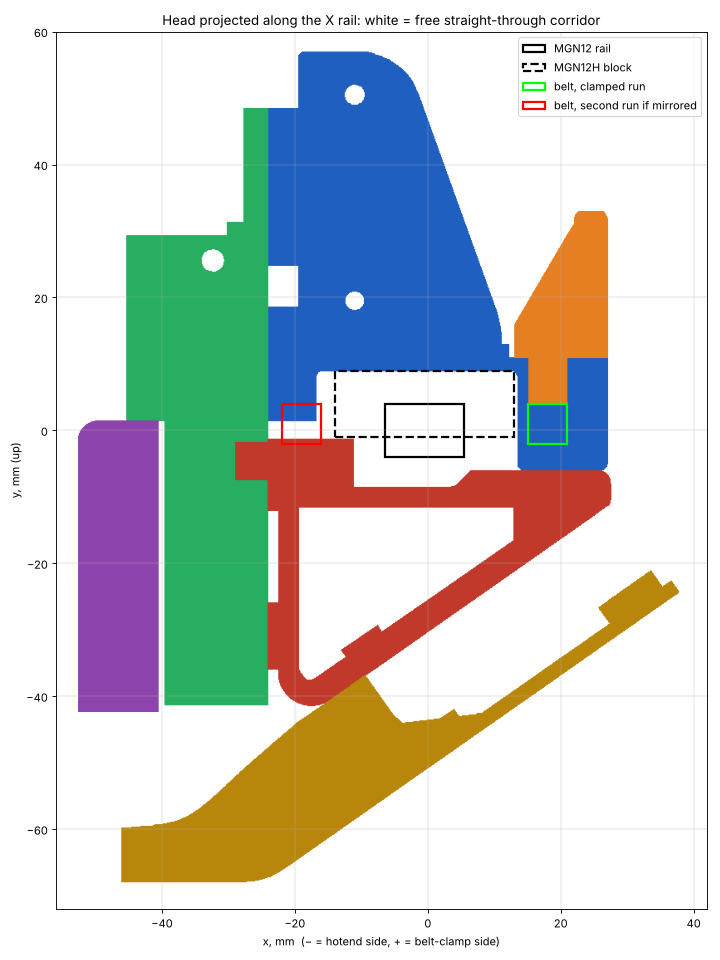
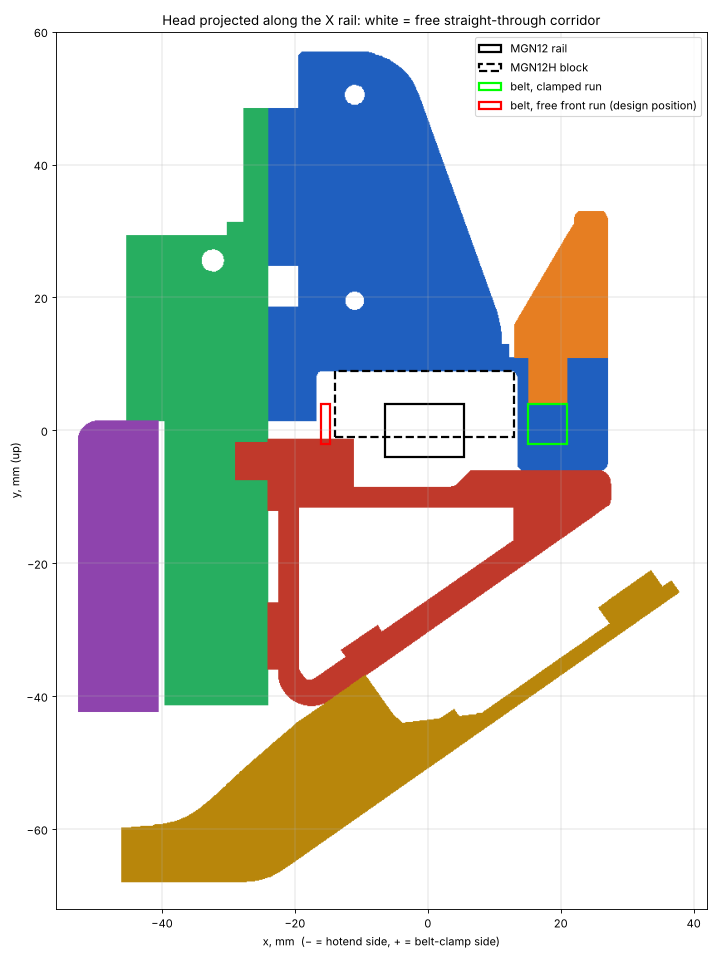
Head review: quantify the front belt gap; fix GEN2 board size in spec files
Claude-Session: https://claude.ai/code/session_01SSoWDM7suK9sTLGVtSHTfG

Changed region(s): [[0.6417, 0.0312, 0.9778, 0.125], [0.4278, 0.4062, 0.4583, 0.4688], [0.3667, 0.4375, 0.3972, 0.4688]]

diff --git a/head/tools/belt_corridor.py b/head/tools/belt_corridor.py
@@ -16,7 +16,7 @@ X0, X1, Y0, Y1 = -56, 42, -72, 60        # window, mm
 RAIL = (-6.5, -4.0, 12.0, 8.0)           # MGN12 rail: x, y, w, h (carriage holes centred on x = -0.5)
 BLOCK = (-14.0, -1.0, 27.0, 10.0)        # MGN12H block, top face at y = 9 (underside of the frame plate)
 BELT_REAR = (15.0, -2.0, 6.0, 6.0)       # clamped run: teardrop pockets x 15..21, belt y -2..4
-BELT_FRONT = (-22.0, -2.0, 6.0, 6.0)     # second run IF it mirrors the rear one about the rail (to be measured)
+BELT_FRONT = (-16.1, -2.0, 1.4, 6.0)     # free run as the design assumes it: centred in the 2.75 mm gap, same height as the clamped run
 COLORS = ["#1f5fbf", "#e67e22", "#27ae60", "#8e44ad", "#c0392b", "#b8860b", "#555555"]
 
 
@@ -42,7 +42,7 @@ def main(out, paths):
     ax.imshow(img, extent=(X0, X1, Y0, Y1))
     for (x, y, bw, bh), ec, ls, lab in [(RAIL, "k", "-", "MGN12 rail"), (BLOCK, "k", "--", "MGN12H block"),
                                         (BELT_REAR, "lime", "-", "belt, clamped run"),
-                                        (BELT_FRONT, "red", "-", "belt, second run if mirrored")]:
+                                        (BELT_FRONT, "red", "-", "belt, free front run (design position)")]:
         ax.add_patch(plt.Rectangle((x, y), bw, bh, fill=False, ec=ec, ls=ls, lw=2, label=lab))
     ax.set_xlabel("x, mm  (− = hotend side, + = belt-clamp side)")
     ax.set_ylabel("y, mm (up)")

diff --git a/head/README.md b/head/README.md
@@ -37,11 +37,15 @@ Head coordinates: origin at the carriage centre, +Z along the X rail, +Y up, hot
 
 ## Findings
 
-1. **No corridor for a second belt run in front of the carriage.** The photos of the printer show a belt run on each side of the X rail. The frame clamps the run behind the rail; if the other run mirrors it in front of the rail (x ≈ −19), it passes through the front lip of the frame and the front bar of the triangle. The only gap there is about 2.5 mm high.
+1. **The gap for the free front belt run is very tight.** By design the front belt run is not clamped: it passes through the gap between the frame, the triangle and the carriage block. That gap is 2.75 mm wide (x = −16.75…−14.0, the last being the face of the MGN12H block) and 10 mm tall (y = −1.1…8.75) along the whole length of the head.
 
    ![Projection along the rail](img/belt_corridor.png)
 
-   White is free space along the whole head. The red box is the mirrored belt position — an assumption until the real belt positions are measured.
+   White is free space along the whole head; the narrow white strip to the left of the dashed block is the gap. The red box is the free front run at the position the design assumes; the green box is the clamped rear run.
+
+   - **Sideways:** a GT2 belt is about 1.4 mm thick, so it has roughly 0.7 mm of clearance to the carriage block on one side and to the frame on the other, and only if it runs exactly 14.9 mm in front of the rail centre. The clamped run sits 18.5 mm behind the rail centre, so the design assumes the two runs are not symmetric about the rail.
+   - **Vertically:** the clamp holds the rear run at y = −2…4, with its top edge level with the top of the rail. A front run at the same height would overlap the top of the triangle by about 0.9 mm.
+   - A belt moves sideways when the head accelerates, so 0.7 mm per side is likely to rub. A slot of about 5 mm (1.5–2 mm per side) with the triangle top lowered to y ≤ −4 would be safe, if the measured belt position allows it.
 
 2. **Carriage screw holes.** The four holes are 2.7 mm with a 5.7 mm counterbore that leaves 1.7 mm of plastic under the screw head. M3 screws need 3.2–3.4 mm, and 1.7 mm is thin for the joint that carries the whole head.
 3. **The board model in the repository is the wrong generation.** It has the first-generation EBB42 and an EBB36 Gen2, but not the EBB42 GEN2 V1.0 that was ordered. The GEN2 is 5 mm longer and its hole pattern is off-centre — see the dimensions below and use the official STEP model.
@@ -68,7 +72,7 @@ The board thickness in the STEP model is not drawn realistically, so the clearan
 
 ## Needed to finalise the head
 
-- **Belt positions on the printer:** distance from the rail centre to each belt run (front and back), height of the belt edges relative to the top of the rail, belt width, and whether the front run is attached to the current carriage or passes through freely.
+- **Belt positions on the printer:** distance from the front face of the rail to the front belt run and from the rear face to the rear run, and the height of the belt's top edge relative to the top of the rail (both runs), and belt width. The design assumes 8.9 mm in front, 12.5 mm behind, and the top edge level with the rail top.
 - **A STEP export of the whole assembly** (`Сборка башки.a3d` → STEP), so every part is available in its real position for interference checks.
 ## Tools
 
